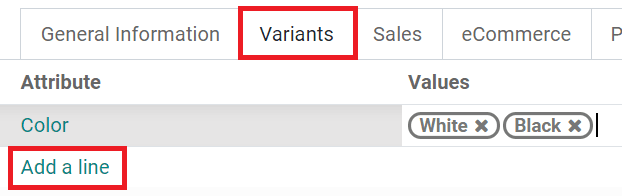
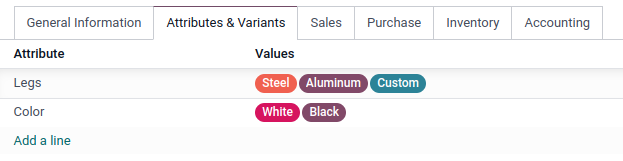
[IMP] ecommerce: product variants
task-2689091

Changed region(s): [[0.0, 0.0, 1.0, 0.9938]]

diff --git a/content/applications/websites/ecommerce/managing_products/variants.rst b/content/applications/websites/ecommerce/managing_products/variants.rst
@@ -1,110 +1,88 @@
-=======================
-Manage product variants
-=======================
+================
+Product variants
+================
 
-Product variants are used to offer variations of the same product to your customers on the product's
-page.
+Product variants are variations, such as different colors, materials, etc., of the same product.
+These variations can differ in price and availability from the product. Product variants can either
+be :doc:`created <../../../sales/sales/products_prices/products/variants>` or
+:doc:`imported <../../../sales/sales/products_prices/products/import>`.
 
-Let's say one of your customers selects a T-shirt from your product catalog.
+To use product variants, go to :menuselection:`Website --> Configuration --> Settings`, tick the
+:guilabel:`Variants` check box in the :guilabel:`Products` section and click :guilabel:`Save`.
 
-Then, they choose the size and color they want. The various size and color combinations are known as
-product variants.
+.. seealso::
+   - :doc:`../../../sales/sales/products_prices/products/variants`
+   - :doc:`../../../sales/sales/products_prices/products/import`
 
-Create attributes & variants
-============================
+Create product attributes and variants
+======================================
 
-In order to create various attributes and variants for your products, you first need to turn on
-*Variants* in :menuselection:`Sales --> Configuration --> Settings`.
+Product variants are created by adding attributes and values to a product template. This allows the
+enabling of the **product configurator** on the product page, which customers can use to configure
+and select the product variant of their choice; or, in the case of multiple attributes, combine
+them to create a specific variant.
 
-Then, select a product from the Products list (:menuselection:`Sales / Website --> Products -->
-Products`). When the product detail form opens, click on *Edit*, and go to the *Variants* tab.
+.. image:: variants/variants-configurator.png
+   :alt: Variants configurator
 
-Here, you can add as many different attributes as you'd like by clicking on *Add a line*.
+To create variants for your products, proceed as follows:
 
-These attributes appear as three different types:
-
-- Radio buttons
-- Color buttons
-- Drop-down menu
-
-Several variants appear as soon as there are two values for one attribute.
-
-Don't forget to hit *Save* once all variants have been entered.
+#. Go to :menuselection:`Website --> Products --> Products` and select the product from the list.
+#. Select the :guilabel:`Attributes & Variants` tab and click :guilabel:`Add a line`.
+#. In the :guilabel:`Attribute` field, select an existing attribute or create a new one.
+#. Specify the possible values for the attribute (i.e. the different options) in the
+   :guilabel:`Values` field.
+#. Click :guilabel:`Save` to save your changes.
 
 .. image:: variants/values.png
-   :align: center
-   :alt: ecommerce product variants values
+   :alt: eCommerce product variants
 
-Edit variants
-=============
+.. tip::
+   To prevent customers from selecting specific combinations of values, you can exclude these
+   combinations from the product configurator. To do so, click the :guilabel:`Configure` button
+   corresponding to the attribute in the :guilabel:`Attributes and Variants` tab in the product
+   template. Then, select the attribute value for which you wish to exclude other attribute values
+   and, in the :guilabel:`Exclude for` section, select a :guilabel:`Product Template` and the
+   :guilabel:`Attribute Values` to exclude. For example, with the following configuration, customers
+   cannot select the color black for the customizable desk or if they also selected aluminum legs.
 
-After you hit *Save*, you are able to see all the variants from the product template detail form via
-the *Variants* smart button.
+   .. image:: variants/exclude_value_combinations.png
+      :alt: Exclude specific combinations of values from the product configurator.
 
-.. image:: variants/smart-button.png
-   :align: center
-   :alt: ecommerce product variants smart button
+Display type
+------------
 
-Clicking the *Variants* smart button takes you to the Product Variants page, where you can edit the
-following data for each specific variant:
+To edit the **display type** of the attributes used in the product configurator, go to
+:menuselection:`Website --> Configuration --> Attributes` and select an attribute, or go to
+:menuselection:`Website --> Products --> Products` and select an attribute in the
+:guilabel:`Attributes and Variants` tab.
 
-- Picture(s)
-- Internal Reference (SKU #)
-- Barcode
-- Volume
-- Weight
-- Cost
+Four options are available:
 
-.. note::
-   Both the Barcode and the Internal Reference are variant-specific. You need to populate them once
-   the variants are generated.
+  - :guilabel:`Radio`: attribute values appear as radio buttons
+  - :guilabel:`Pills`: attribute values appear as buttons
+  - :guilabel:`Select`: attribute values appear in a dropdown menu
+  - :guilabel:`Color`: attribute values appear as small colored disks; you can select the color of
+    the disk for each attribute value by clicking the corresponding disk in the
+    :guilabel:`Attribute values` tab, then picking a color.
+
+Edit product variants
+=====================
+
+You can edit product variant-specific data such as their picture, internal reference, barcode,
+volume, weight and cost. To do so, go to :menuselection:`Website --> Products --> Products`, select
+the product from the list and click the :guilabel:`Variants` smart button. Then, select the product
+variant and click :guilabel:`Edit`.
 
 Set specific prices per variant
 ===============================
 
-You can set a specific public price per variant by clicking on *Configure Variants* in the product
-detail form (top-left corner). That takes you to the *Product Variant Values* page for that product.
-
-.. image:: variants/configure-variants.png
-   :align: center
-   :alt: ecommerce product variants configure variants
-
-To set a specific public price for a particular variant, simply click on the variant you want to
-modify, then click on *Edit*.
-
-The *Value Price Extra* field represents the monetary value that is added to the original product
-price whenever the corresponding attribute value is selected.
-
-.. image:: variants/value-price-extra.png
-   :align: center
-   :alt: ecommerce value price extra
-
-This is how the *Value Price Extra* looks on your website:
-
-.. image:: variants/value-price-extra-frontend.png
-   :align: center
-   :alt: ecommerce value price extra on the frontend
+To add extra costs to a product's standard price for a specific product variant, go to
+:menuselection:`Website --> Products --> Products` and select the product from the list. Select the
+:guilabel:`Attributes & Variants` tab and click the :guilabel:`Configure` button. Then, select the
+attribute value for which you wish to add extra costs and specify the additional cost in the
+:guilabel:`Value Price Extra` field. It is displayed next to the attribute value on your website.
 
 .. note::
-   Pricelist formulas let you set advanced price computation methods for product variants. See
-   :doc:`../maximizing_revenue/pricing`.
-
-Disable/archive variants
-========================
-
-You can disable/archive specific variants so they are no longer available in quotes or on your
-website (not existing in your stock, deprecated, etc.). Simply select *Archive* in their detail
-form. You can reactivate them the same way.
-
-.. image:: variants/archive.png
-   :align: center
-   :alt: ecommerce product variants archive
-
-To retrieve such items, hit *Archived* in the *Filters* category while searching the variants list.
-
-.. image:: variants/archive-search.png
-   :align: center
-   :alt: ecommerce product variants archive search
-
-.. seealso::
-   - :doc:`../../../sales/sales/products_prices/products/variants`
+   Advanced price computation methods for product variants can be defined using :doc:`Pricelist
+   formulas </applications/sales/sales/products_prices/prices/pricing>`.
